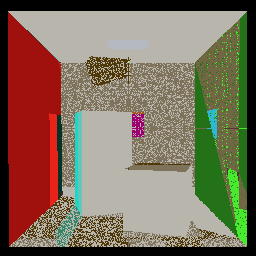
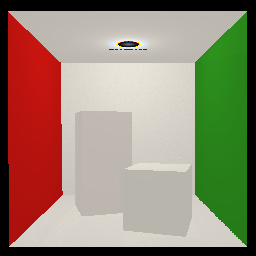
finally brdf difuse working

diff --git a/pathtracer.cpp b/pathtracer.cpp
@@ -14,6 +14,11 @@ PathTracer::PathTracer(int width, int height)
 {
 }
 
+void PathTracer::lightSources(const Scene &scene)
+{
+
+}
+
 void PathTracer::traceScene(QRgb *imageData, const Scene& scene)
 {
     std::vector<Vector3f> intensityValues(m_width * m_height);
@@ -27,6 +32,7 @@ void PathTracer::traceScene(QRgb *imageData, const Scene& scene)
             intensityValues[offset] = Vector3f(0.0,0.0,0.0);
             for (int rays=0; rays<50; ++rays)
             {
+                //intensityValues[offset] += tracePixel(94, 152, scene, invViewMat);
                 intensityValues[offset] += tracePixel(x, y, scene, invViewMat);
             }
             intensityValues[offset] /= 50;
@@ -57,67 +63,66 @@ Vector3f PathTracer::tracePixel(int x, int y, const Scene& scene, const Matrix4f
 Vector3f PathTracer::traceRay(const Ray& r, const Scene& scene,Vector3f color, int bounce )
 {
 
-    /*if(bounce > maxbounce)
-    {
-        maxbounce = bounce;
-        std::cout<< "max bounce: " << maxbounce << std::endl;
-    }*/
-    std::mt19937 mersenneTwister;
+
+
     std::default_random_engine generator;
     std::uniform_real_distribution<float> distribution(0,1);
-    //float random = distribution(generator);
-   // std::cout << "traceRay" << std::endl;
-    if(bounce >= 3)
+    float random = distribution(generator);
+
+    if(bounce >= 5)
     {
-        //if( random <= 0.1)
-        //{
-             //std::cout << "RETURNNNNNNNNNNNNNNNNNNN" << std::endl;
+        if( random <= 0.1)
+        {
             return  Vector3f(0, 0, 0);
-        //}
+        }
     }
 
     IntersectionInfo interesction;
     Ray ray(r);
     if(scene.getIntersection(ray, &interesction)) {
 
-
         //** Example code for accessing materials provided by a .mtl file **
         const Triangle *t = static_cast<const Triangle *>(interesction.data);//Get the triangle in the mesh that was intersected
         const tinyobj::material_t& mat = t->getMaterial();//Get the material of the triangle from the mesh
+        const std::vector<CS123SceneLightData> sceneLights = const_cast<Scene&>(scene).getLights();
         const tinyobj::real_t *e = mat.emission;
         Vector3f pvEmission(e[0],e[1],e[2]);
 
         const tinyobj::real_t *d = mat.diffuse;//Diffuse color as array of floats
         Vector3f diffuseV(d[0],d[1],d[2]);
 
-        /*if(pvEmission != Vector3f::Zero())
+        if(pvEmission != Vector3f::Zero())
         {
             std::cout << "EMISEVE" << std::endl;
-        }*/
+        }
         Vector3f L = diffuseV + pvEmission;
         Vector3f px = interesction.hit;
         const Vector3f hitNormal =  t->getNormal(interesction);
 
-        //CS123SceneColor directLight  = lEmmited(sceneLights,hitPoint,hitNormal);
+        CS123SceneColor directLight  = lEmmited(sceneLights,px,hitNormal);
 
         float r1 = distribution(generator);
         float r2 = distribution(generator);
-        Vector3f newDir = uniformHemiSphere(r1, r2);
+        Vector3f sample = uniformHemiSphere(r1, r2);
         Vector3f v1(0.0,0.0,0.0);
         Vector3f v2(0.0,0.0,0.0);
         createNormalPlane(hitNormal,v1,v2);
-        Vector3f wi;
-        wi[0] = Vector3f(v1.x(),  hitNormal.x() ,v2.x() ).dot(newDir);
-        wi[1] = Vector3f(v1.y(), hitNormal.y() ,v2.y()).dot(newDir);
-        wi[2]= Vector3f(v1.z(), hitNormal.z() ,v2.z() ).dot(newDir);
+        Vector3f wi(0.0,0.0,0.0);
+        wi[0] = sample.x() * v2.x() + sample.y() * hitNormal.x() + sample.z() * v1.x();
+        wi[1] = sample.x() * v2.y() + sample.y() * hitNormal.y() + sample.z() * v1.y();
+        wi[2]= sample.x() * v2.z() + sample.y() * hitNormal.z() + sample.z() * v1.z();
         ray.o = px;
         ray.d = wi;
-        float costheta = std::fmaxf(0.0,ray.d.dot(hitNormal));
+        float costheta = ray.d.dot(hitNormal);
         float pdf = 1 / (2 * M_PI);
-        float factor = costheta / (pdf);// * 0.1);
-        Vector3f lr = traceRay(ray,scene,color,bounce+1) ;
-        Vector3f tmp =  lr.array() * (diffuseV.array() / M_PI) *costheta ;
-        L +=  tmp/pdf ;
+        //float factor = costheta / ((pdf) * 0.1);
+        Vector3f lr = traceRay(ray,scene,color,bounce+1) * costheta /pdf * 0.1;
+        Vector3f total = (Vector3f(directLight.x(),directLight.y(),directLight.z())).array()  + lr.array();
+        //Vector3f total =  lr;
+        Vector3f tmp =  total.array() * ((diffuseV).array()/M_PI) ;
+
+        L +=  tmp  ;
+        //L = (Vector3f(directLight.x(),directLight.y(),directLight.z())).array() * (diffuseV).array();
         return L;
        //  return Vector3f(d[0] , d[1], d[2]);
     } else {
@@ -127,9 +132,9 @@ Vector3f PathTracer::traceRay(const Ray& r, const Scene& scene,Vector3f color, i
 }
 
 
-void PathTracer::createNormalPlane(const Vector3f & v1, Vector3f & v2,Vector3f & v3)
+void PathTracer::createNormalPlane(const Vector3f & normal, Vector3f & v2,Vector3f & v3)
 {
-    if (std::abs(v1.x()) > std::abs(v1.y())) {
+   /* if (std::abs(v1.x()) > std::abs(v1.y())) {
            // project to the y = 0 plane and construct a normalized orthogonal vector in this plane
            float invLen = 1.f / sqrtf(v1.x() * v1.x() + v1.z() * v1.z());
            v2 = Vector3f(-v1.z() * invLen, 0.0f, v1.x() * invLen);
@@ -138,14 +143,24 @@ void PathTracer::createNormalPlane(const Vector3f & v1, Vector3f & v2,Vector3f &
            float invLen = 1.0f / sqrtf(v1.y() * v1.y() + v1.z() * v1.z());
            v2 = Vector3f(0.0f, v1.z() * invLen, -v1.y() * invLen);
        }
-       v3 = v1.cross(v2);
+       v3 = v1.cross(v2);*/
+
+    if (std::fabs(normal.x()) > std::fabs(normal.y()))
+    {
+        v2 = Vector3f(normal.z(), 0, -normal.x()) / sqrtf(normal.x() * normal.x() + normal.z() * normal.z());
+    }
+    else{
+        v2 = Vector3f(0, -normal.z(), normal.y()) / sqrtf(normal.y() * normal.y() + normal.z() * normal.z());
+
+    }
+    v3 = normal.cross(v2);
 }
 
 Vector3f PathTracer::uniformHemiSphere(float x, float y)
 {
    float r = sqrtf(1.0-x*x);
    float phi = 2*M_PI*y;
-   return Vector3f(cosf(phi) * r,sinf(phi) *r,x);
+   return Vector3f(cosf(phi) * r,x,sinf(phi) *r);
 }
 
 CS123SceneColor PathTracer::lEmmited(const std::vector<CS123SceneLightData>& sceneLights,

diff --git a/pathtracer.h b/pathtracer.h
@@ -17,6 +17,7 @@ private:
     int m_width, m_height;
 
     void toneMap(QRgb *imageData, std::vector<Eigen::Vector3f> &intensityValues);
+    void lightSources(const Scene &scene);
 
     Eigen::Vector3f tracePixel(int x, int y, const Scene &scene, const Eigen::Matrix4f &invViewMatrix);
     Eigen::Vector3f traceRay(const Ray& r, const Scene &scene,Eigen::Vector3f color, int bounce = 0);
@@ -26,6 +27,9 @@ private:
 
     Eigen::Vector3f uniformHemiSphere(float x, float y) ;
     void createNormalPlane(const Eigen::Vector3f & v1, Eigen::Vector3f & v2,Eigen::Vector3f & v3);
+    std::vector<Triangle*> triangleLigthSources;
+
+
 };
 
 #endif // PATHTRACER_H

diff --git a/scene/scene.cpp b/scene/scene.cpp
@@ -256,3 +256,8 @@ bool Scene::getIntersection(const Ray& ray, IntersectionInfo* I) const{
     return getBVH().getIntersection(ray, I, false);
 }
 
+const std::vector<Object *>& Scene::sceneObjects()
+{
+   return *_objects;
+}
+

diff --git a/scene/scene.h b/scene/scene.h
@@ -34,6 +34,8 @@ public:
 
     bool getIntersection(const Ray& ray, IntersectionInfo* I) const;
 
+    const std::vector<Object *>& sceneObjects();
+
 private:
 
     BVH *m_bvh;
